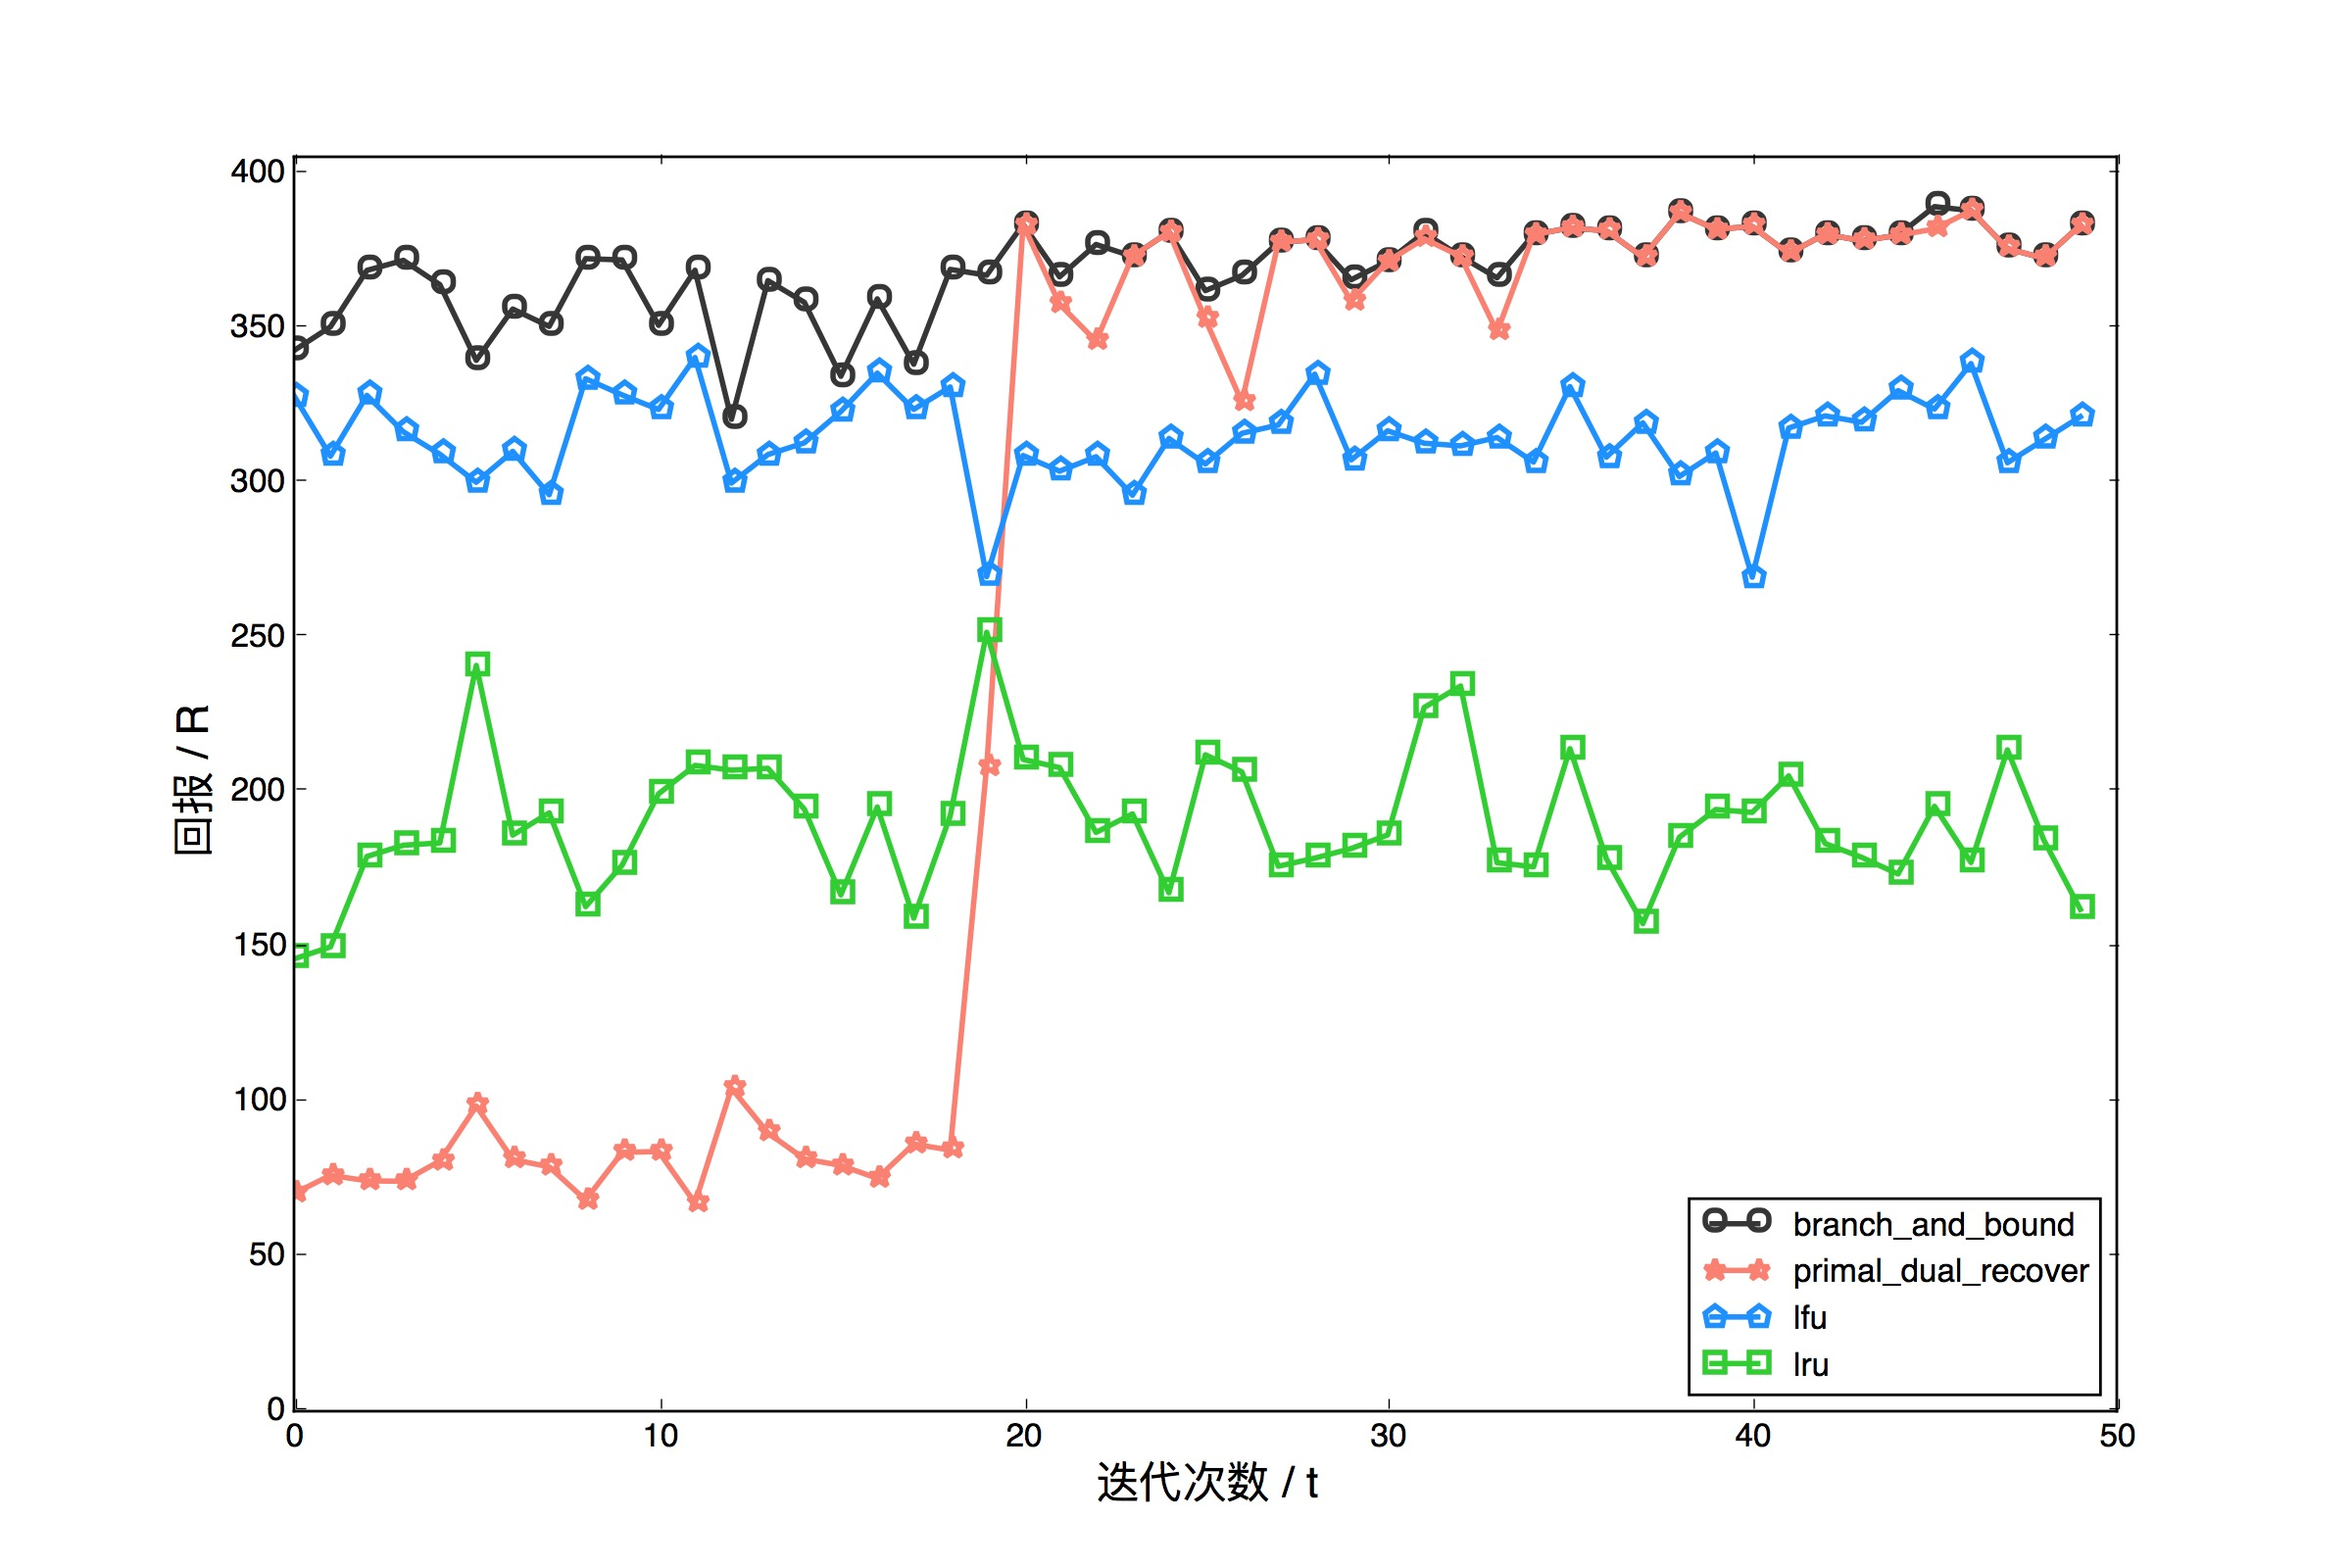
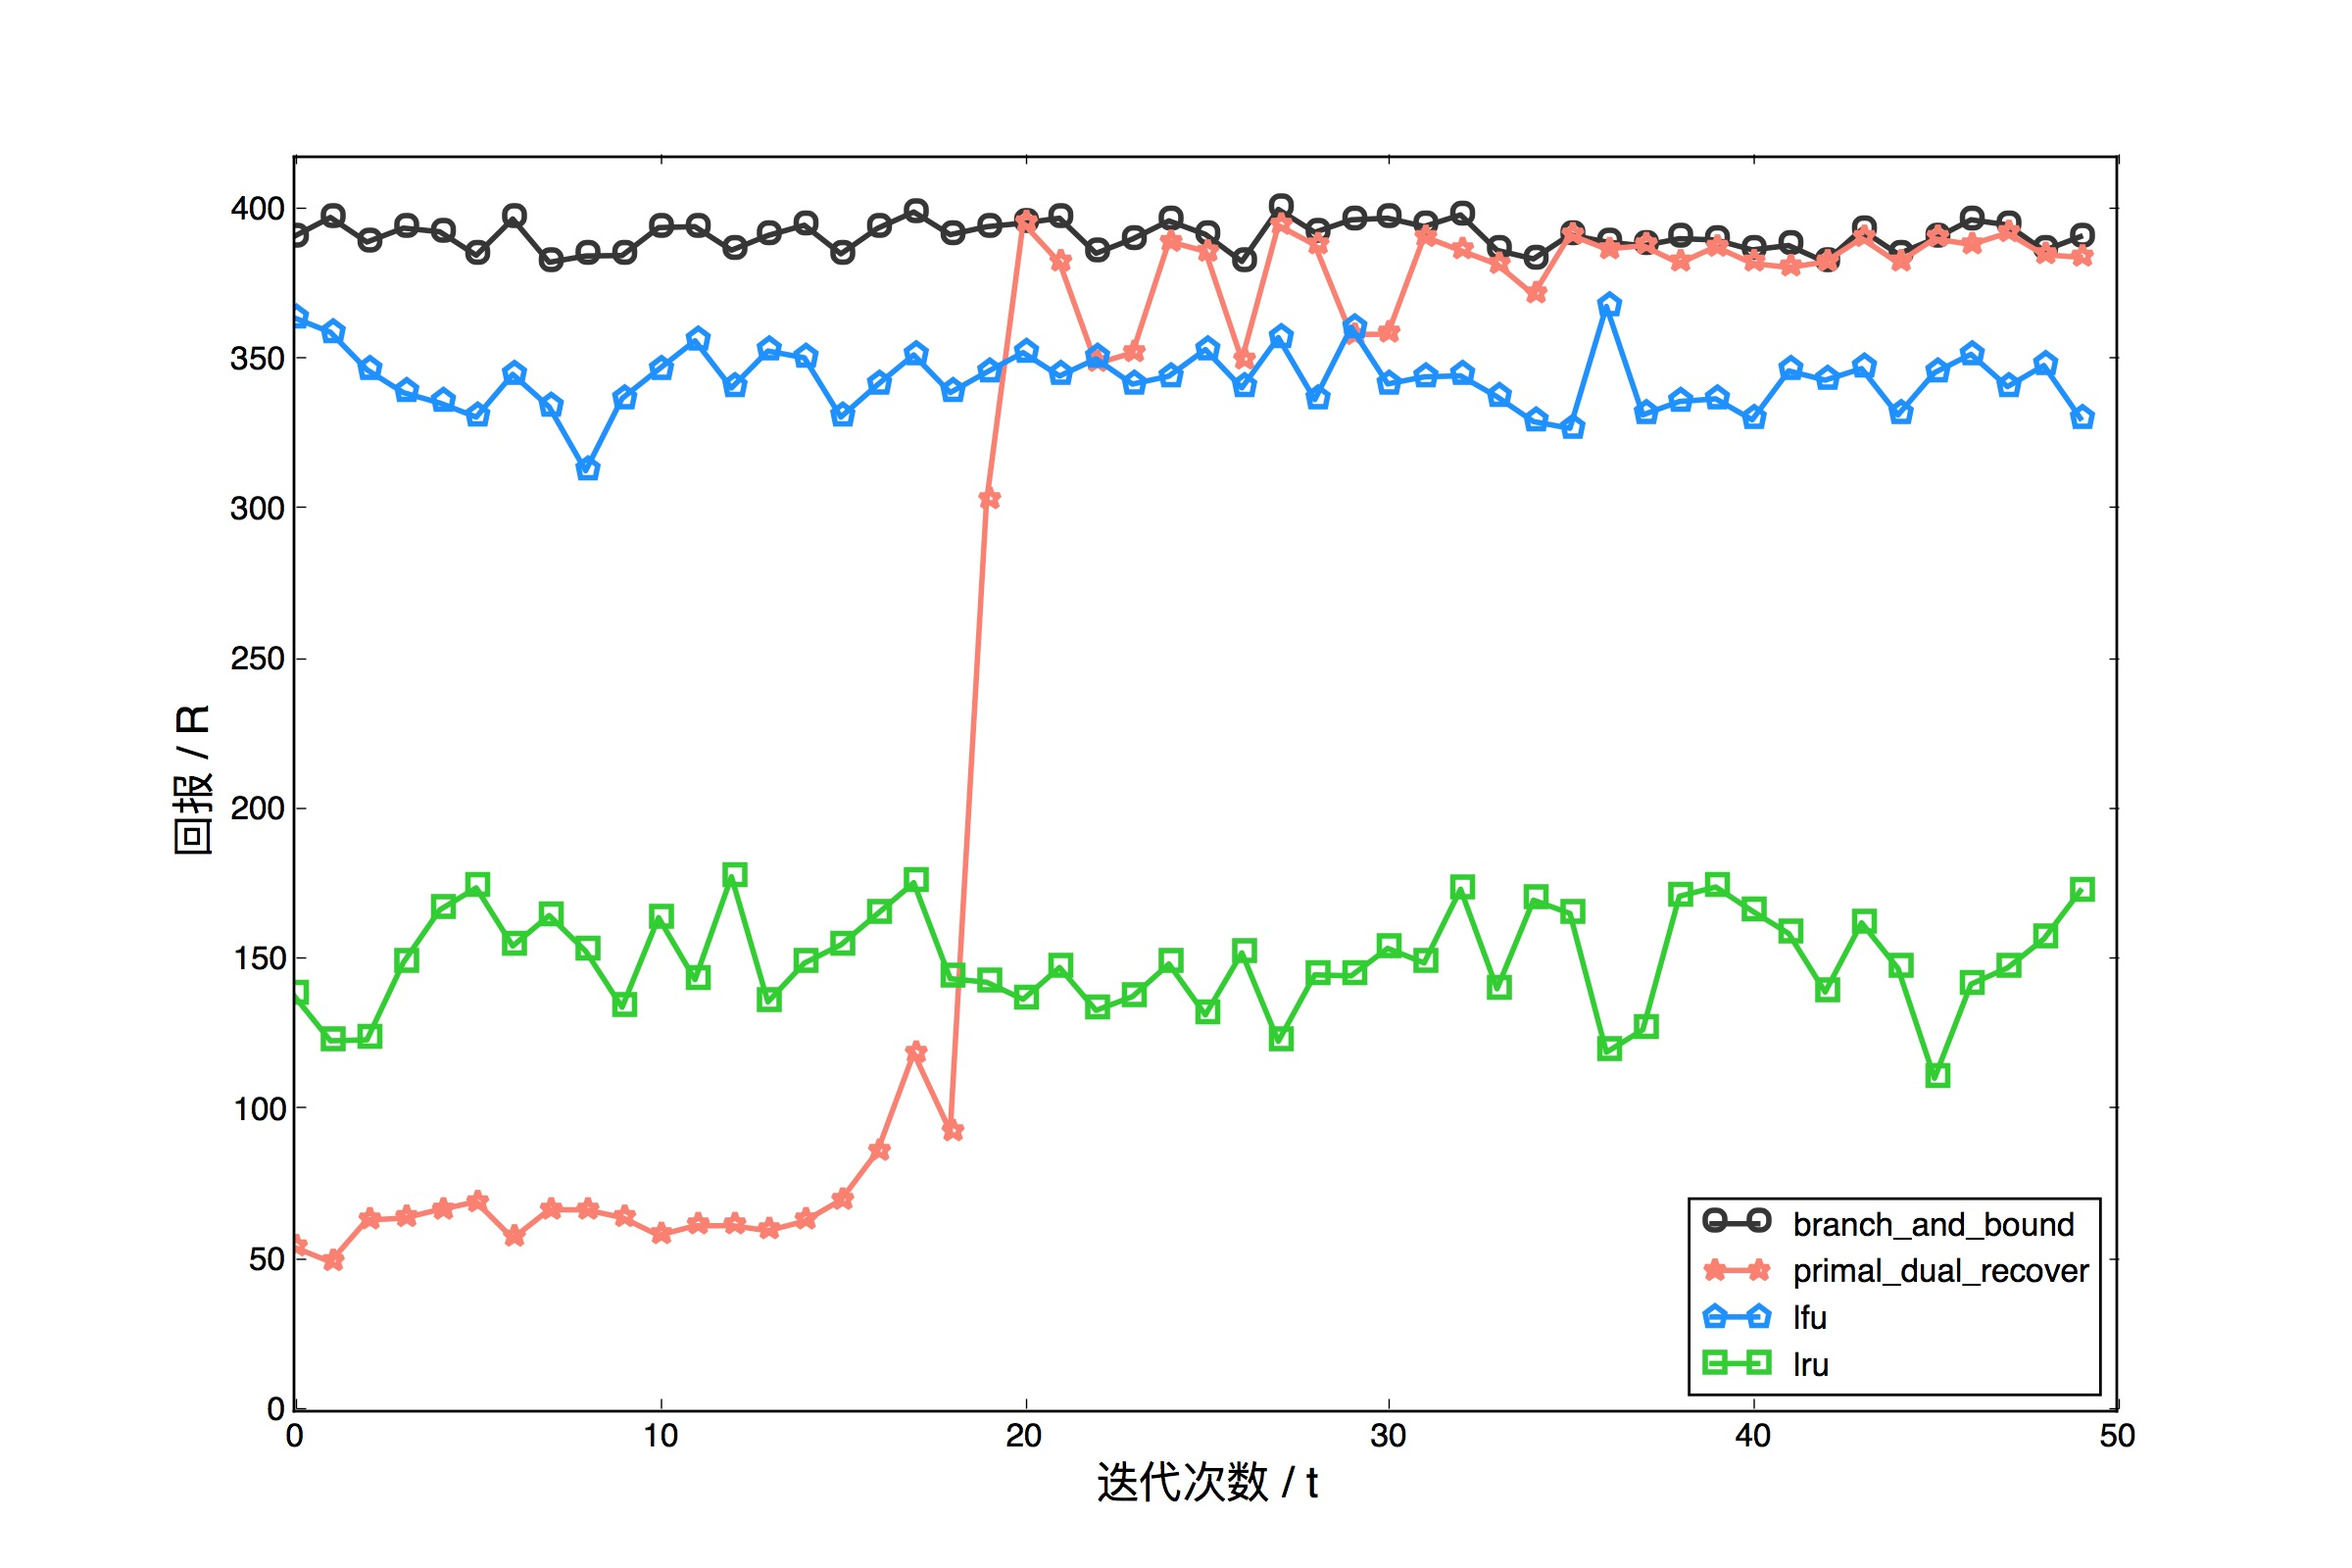
Myron:  fix plots.

diff --git a/display/rewards.py b/display/rewards.py
@@ -107,7 +107,8 @@ def display_multiple_(rewards_data, display_length=500, fig_size=(12, 8), line_w
     ax.spines['top'].set_color('black')
     ax.spines['bottom'].set_color('black')
     max_y, min_y = 0, 1e10
-    for _, reward in enumerate(rewards_data.values()):
+    counter = 0
+    for _, reward in rewards_data.iteritems():
         if isinstance(reward[0], dict):
             frame = pd.DataFrame(reward)
             frame['total'] = frame.sum(axis=1)
@@ -120,17 +121,21 @@ def display_multiple_(rewards_data, display_length=500, fig_size=(12, 8), line_w
             curve = reward
         current_marker = marker
         if marker == '':
-            current_marker = AVAILABLE_MARKERS[_ % len(AVAILABLE_MARKERS)]
+            current_marker = AVAILABLE_MARKERS[counter % len(AVAILABLE_MARKERS)]
         if with_standardize:
-            curve = curve[:standardize_init] + _standardize_(curve[standardize_init:], sigma=sigma)
+            if _ == 'Proposed algorithm':
+                curve = curve[:standardize_init] + _standardize_(curve[standardize_init:], sigma=sigma)
+            else:
+                curve = _standardize_(curve, sigma=sigma)
         if x_axis is not None:
-            plt.plot(x_axis, curve, color=DEFAULT_COLORS.get(_), linewidth=line_width,
+            plt.plot(x_axis, curve, color=DEFAULT_COLORS.get(counter), linewidth=line_width,
                      marker=current_marker, markersize=marker_size, markerfacecolor='None',
-                     markeredgecolor=DEFAULT_COLORS.get(_), markeredgewidth=line_width)
+                     markeredgecolor=DEFAULT_COLORS.get(counter), markeredgewidth=line_width)
         else:
-            plt.plot(curve, color=DEFAULT_COLORS.get(_), linewidth=line_width,
+            plt.plot(curve, color=DEFAULT_COLORS.get(counter), linewidth=line_width,
                      marker=current_marker, markersize=marker_size, markerfacecolor='None',
-                     markeredgecolor=DEFAULT_COLORS.get(_), markeredgewidth=line_width)
+                     markeredgecolor=DEFAULT_COLORS.get(counter), markeredgewidth=line_width)
+        counter += 1
     plt.title(title, fontsize=title_size, verticalalignment='bottom',
               horizontalalignment='center', color='k', fontproperties=font_properties)
     font_properties.set_size(label_size)

diff --git a/simulation/simu_algo_comp.py b/simulation/simu_algo_comp.py
@@ -121,9 +121,9 @@ def plot_algorithms_comparison():
         'x_label': u'迭代次数 / ',
         'y_label': u'缓存回报 / ',
         'all_curves': True,
-        'with_standardize': False,
-        'standardize_init': 6,
-        'sigma': 3,
+        'with_standardize': True,
+        'standardize_init': 19,
+        'sigma': 0.75,
         'loc': 4,
         'legend_size': 15,
         'fixed_theta': True,
@@ -228,5 +228,5 @@ if __name__ == '__main__':
     t_comparison_algorithm = primal_dual_recover
     algorithm_comparison(t_algorithms, comparison_algorithm=t_comparison_algorithm, prefix='algorithm',
                          circles=2000, dump=True, **plot_parameters)
-    # plot_algorithms_comparison()
+    plot_algorithms_comparison()
     # plot_regrets_comparison()
